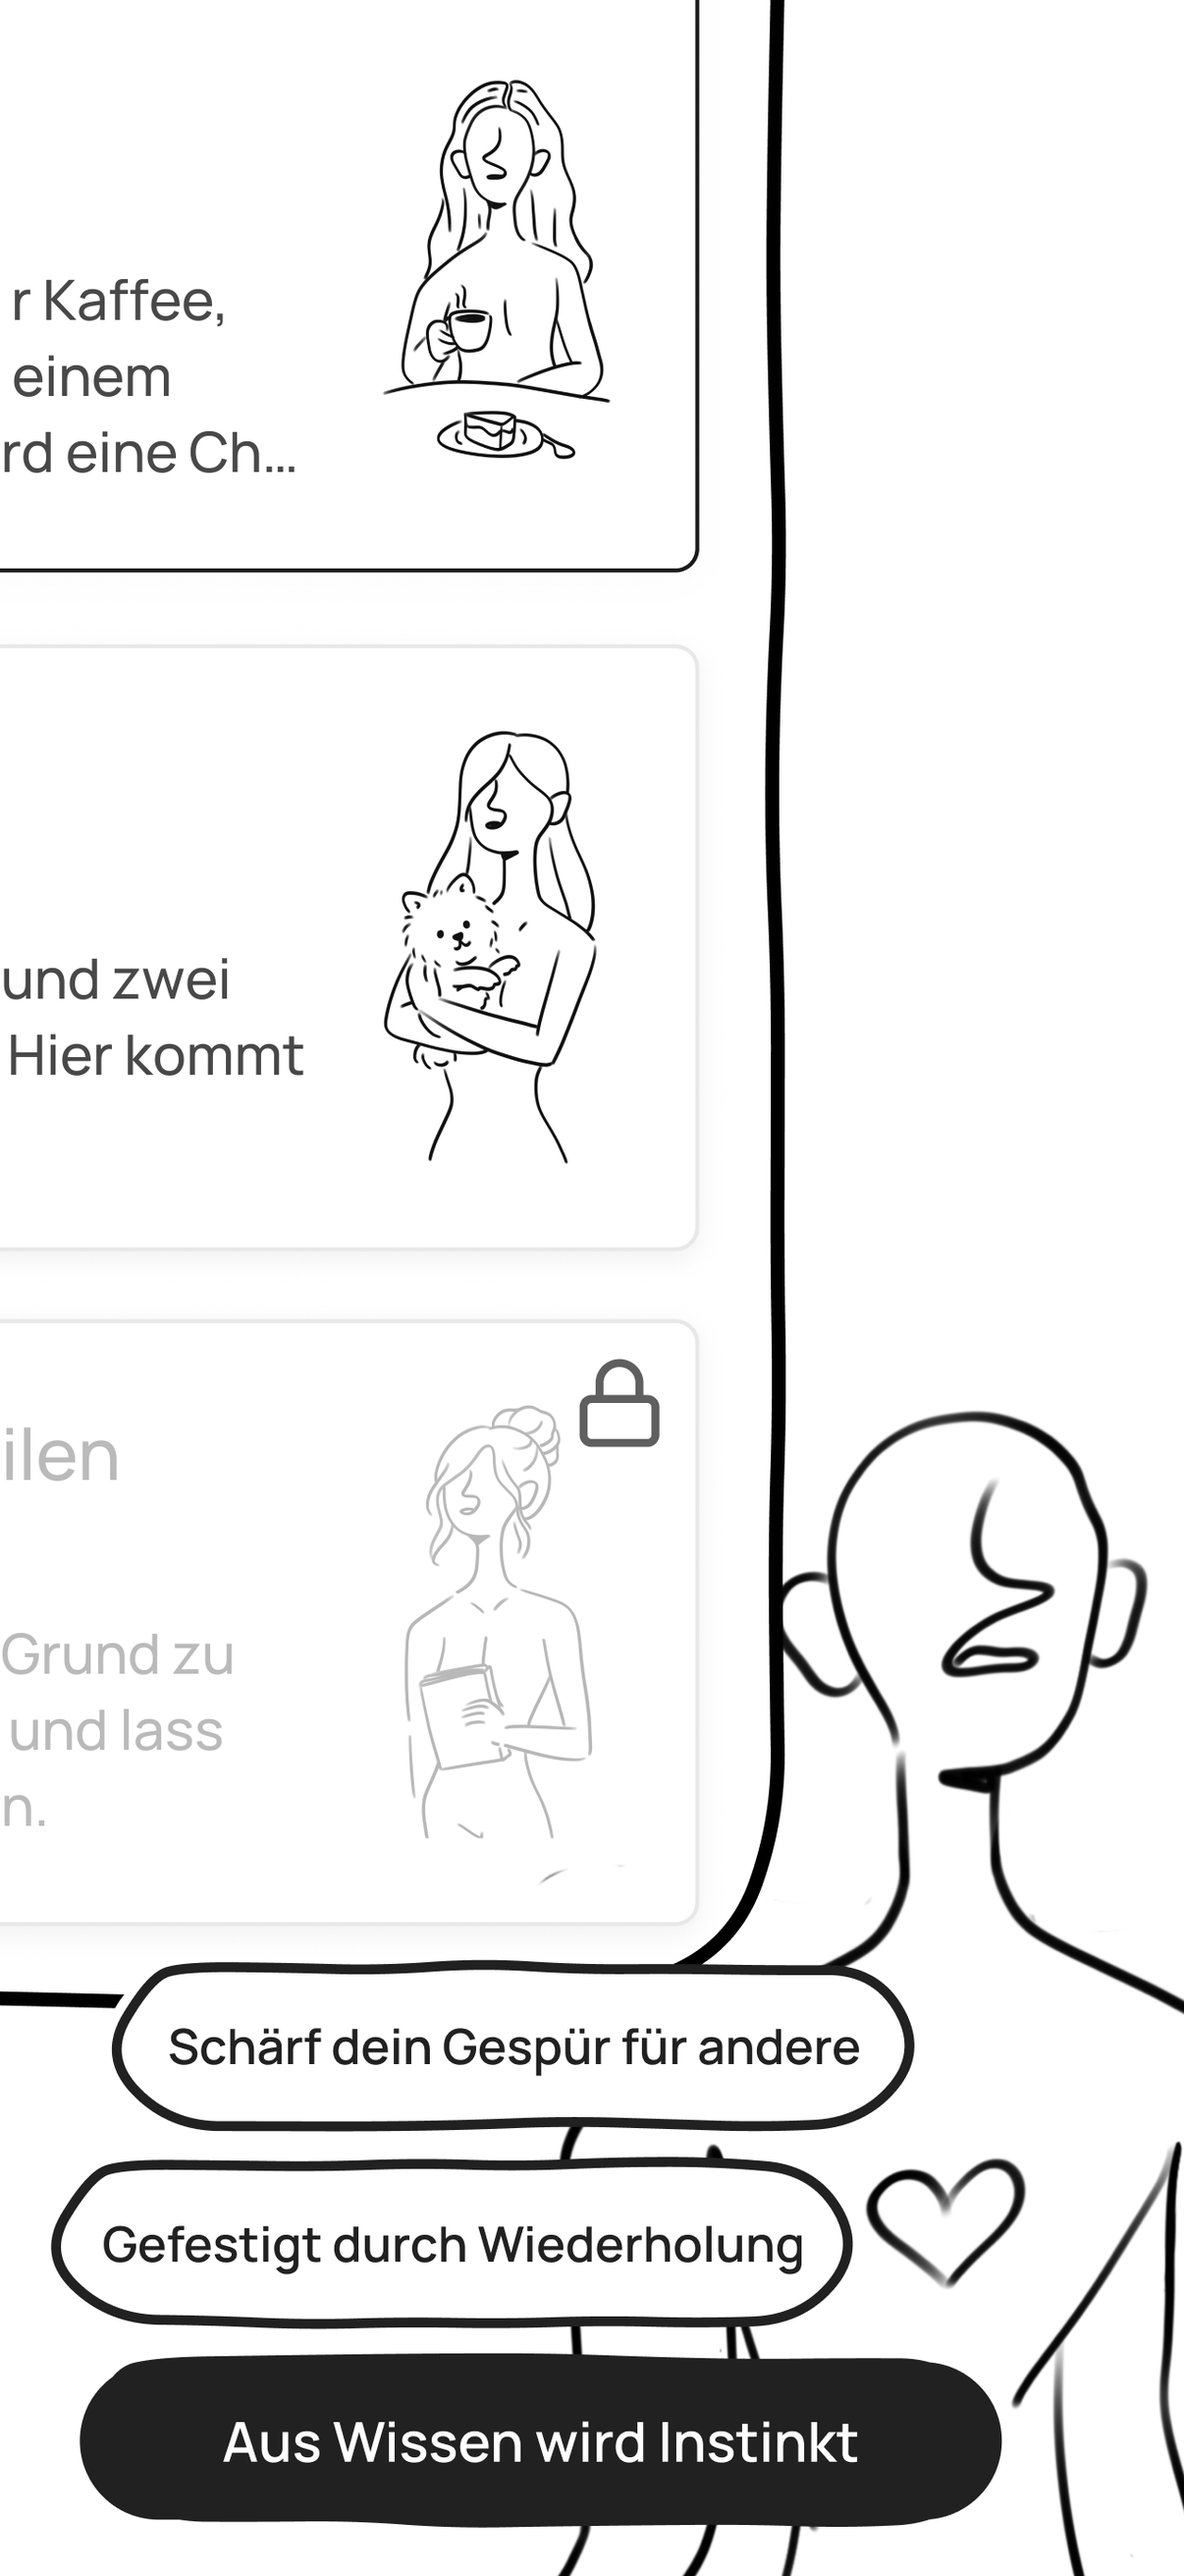
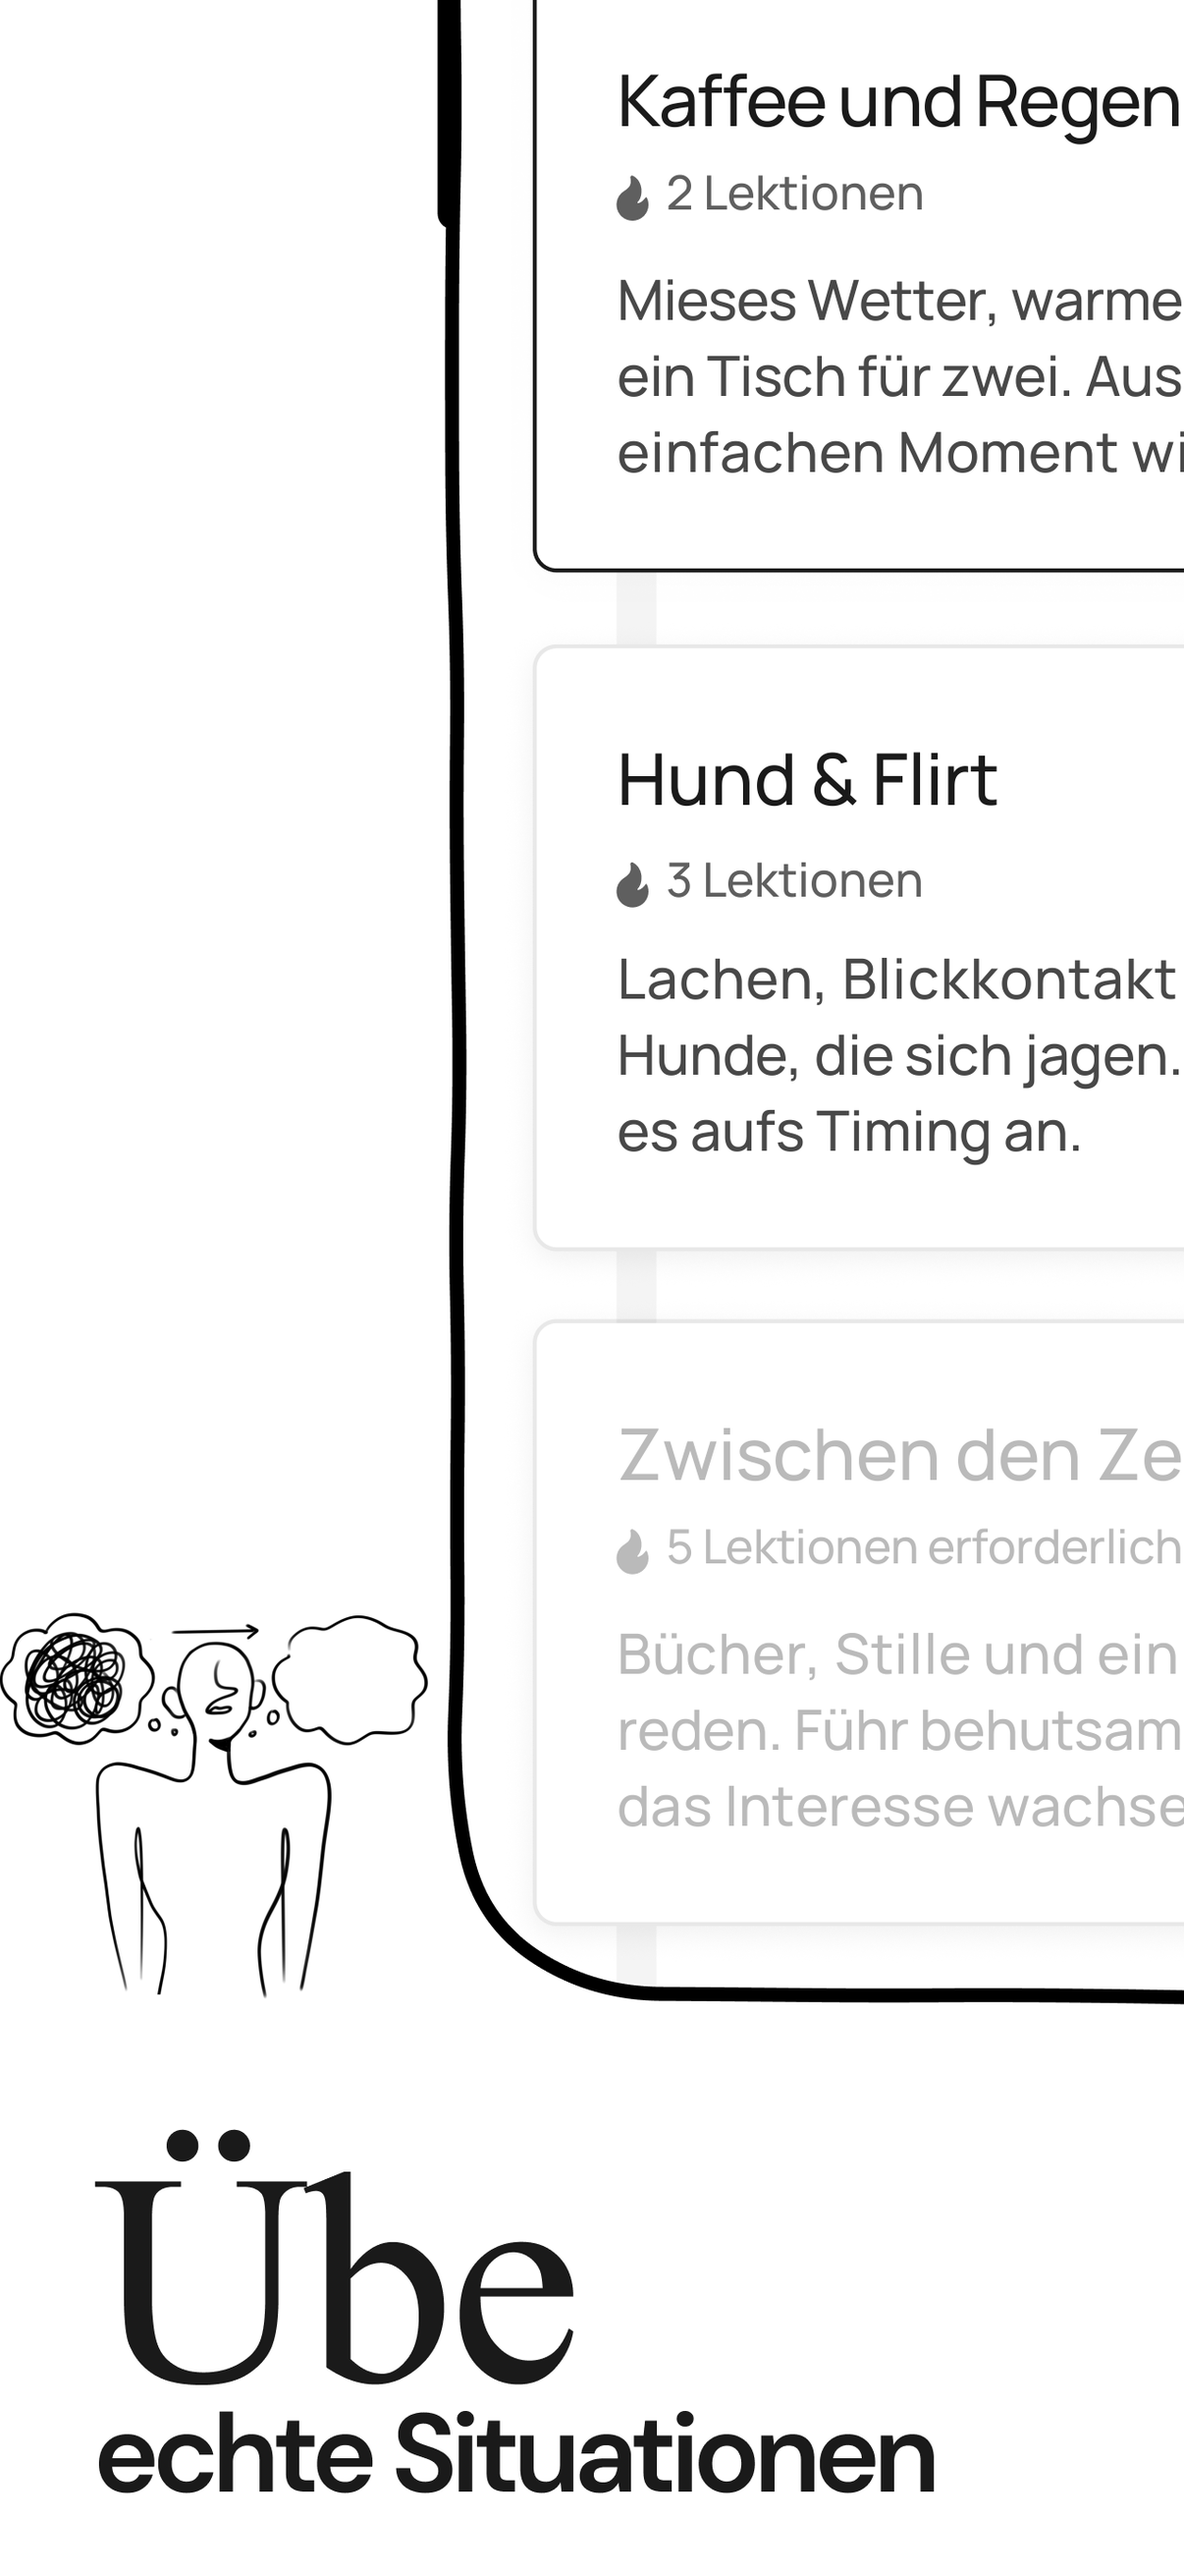
German screenshots: Arthur's new export (Quiz third) with German scenario cards

diff --git a/marketing/app-store-screenshots-de/README.md b/marketing/app-store-screenshots-de/README.md
@@ -1,6 +1,6 @@
 # German App Store screenshots (1.15)
 
-- `1284x2778/` holds the full-size set. Images 1, 3 and 4 are corrected copies of Arthur's Figma exports; 2 and 5 are unchanged copies.
+- `1284x2778/` holds the full-size set, from Arthur's Figma export of 2026-11-12 23:06 (`Assets/Base #1/Base #1/`), in upload order: 1 = `1.png`, 2 = `2.png`, 3 = `5.png` (Quiz), 4 = `7.png` and 5 = `6.png` (the scenario cards, left half then right half). Images 4 and 5 have the German cards applied by `fix_screenshots_3_4.py`; 1–3 are unchanged copies of the export. Image 1's headline still lacks the comma in "der Chancen, die" (Figma fix). Image 2's lesson cards still show English titles; the app shows German ones.
 - `1206x2622/` holds what is uploaded to App Store Connect (German, iPhone 6.1"/6.3", the required slot).
 - `scripts/fix_screenshot_1.py` rebuilds image 1's bottom-right text from its own letters (`python3 fix_screenshot_1.py <in> <out> 0.93`).
 - `scripts/fix_screenshots_3_4.py` re-sets the three practice cards across images 3 and 4 in Manrope (`<in3> <in4> <out3> <out4>`).
